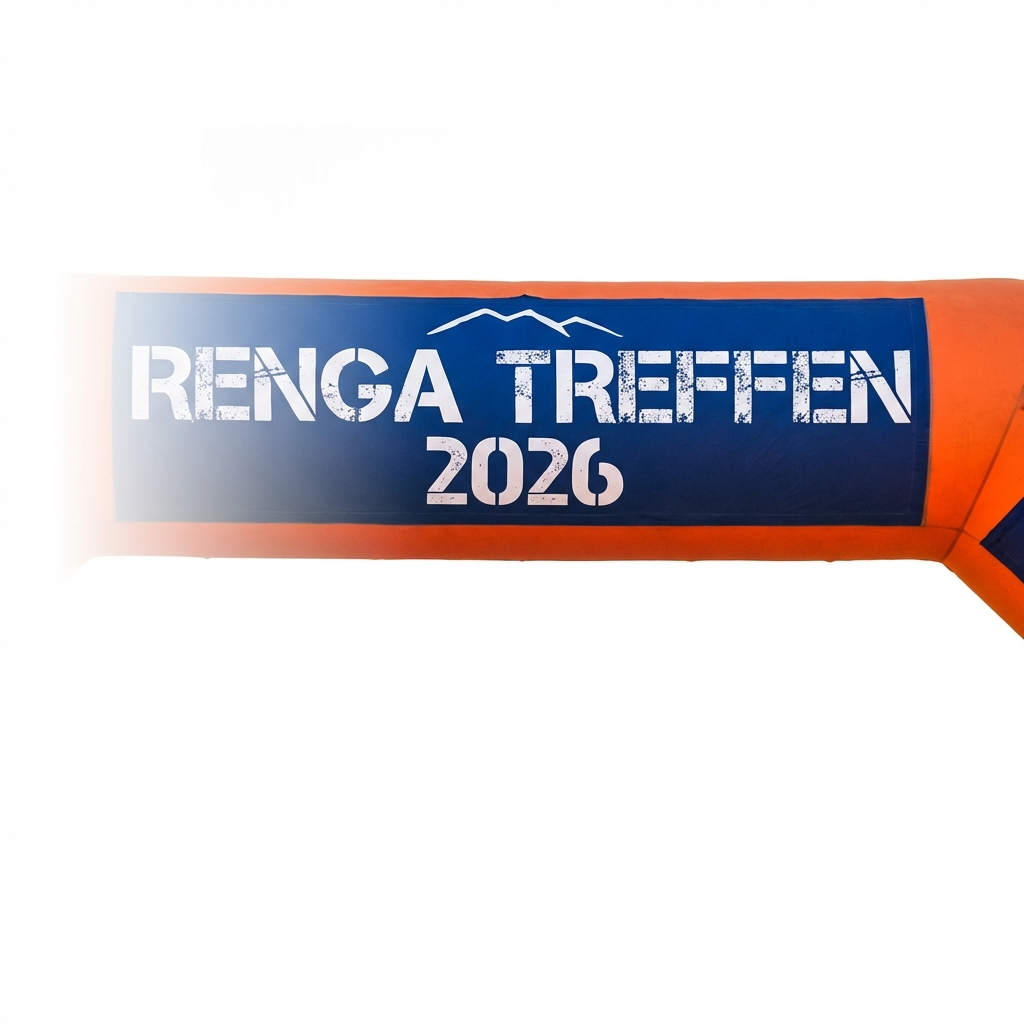
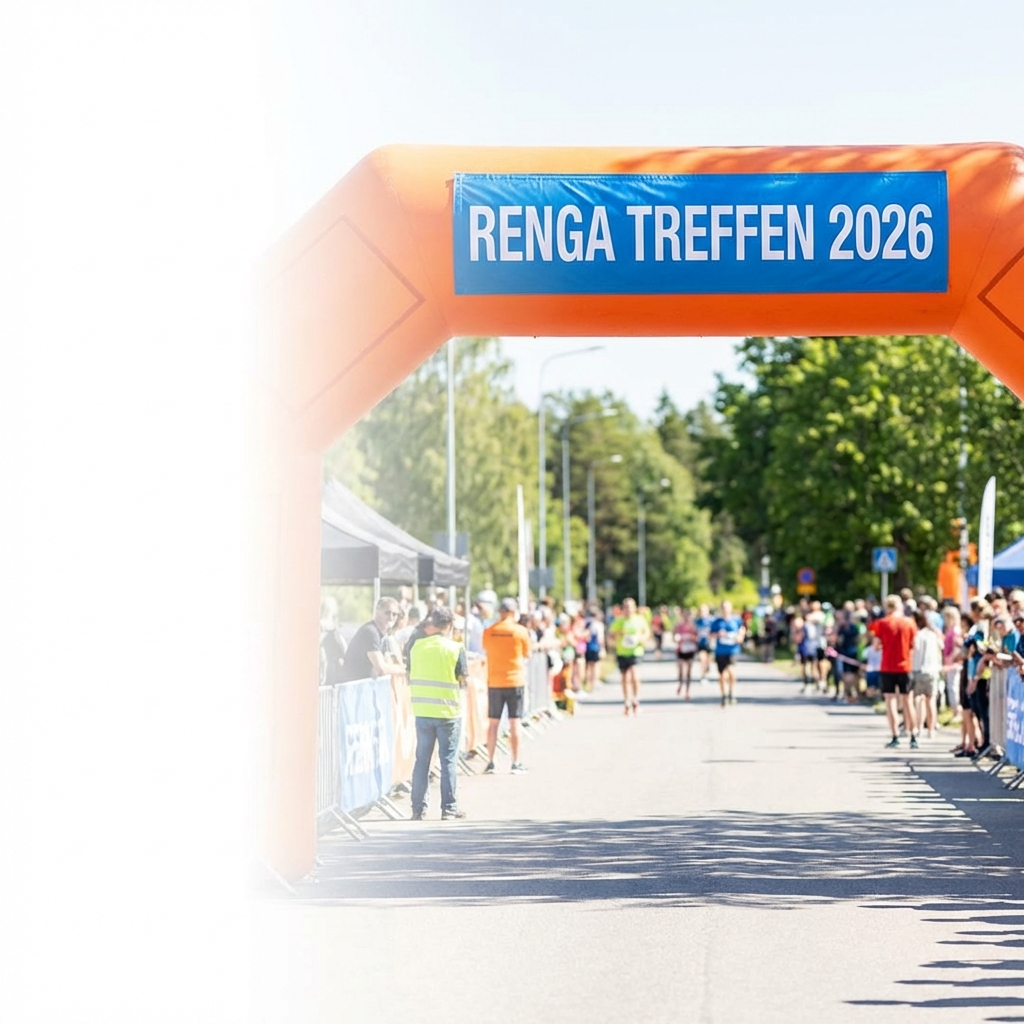
style(timetable): fix hero arch position and clarity

diff --git a/timetable.html b/timetable.html
@@ -47,7 +47,8 @@
     <main>
         <!-- URL:https://www.rengatreffen.it/timetable ID 1001 -->
         <section class="hero contact-hero">
-            <div class="hero-bg" style="background-image: url('timetable_hero.png'); background-position: center top;">
+            <div class="hero-bg"
+                style="background-image: url('timetable_hero.png'); background-position: right center;">
             </div>
             <div class="hero-overlay-gradient"></div>
 
